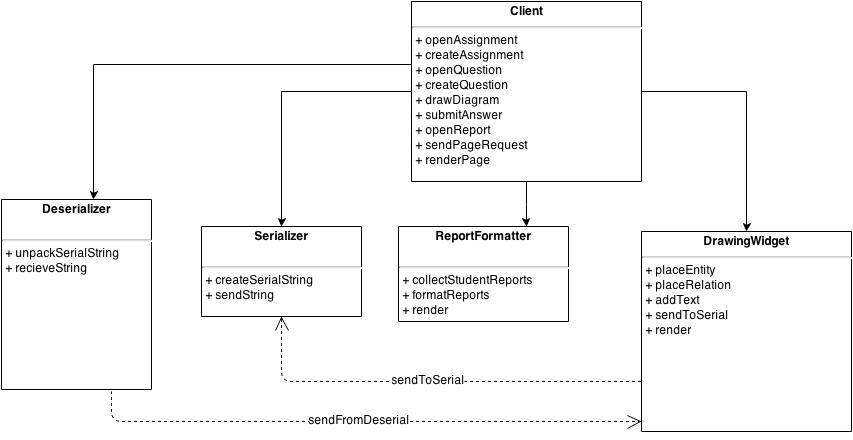
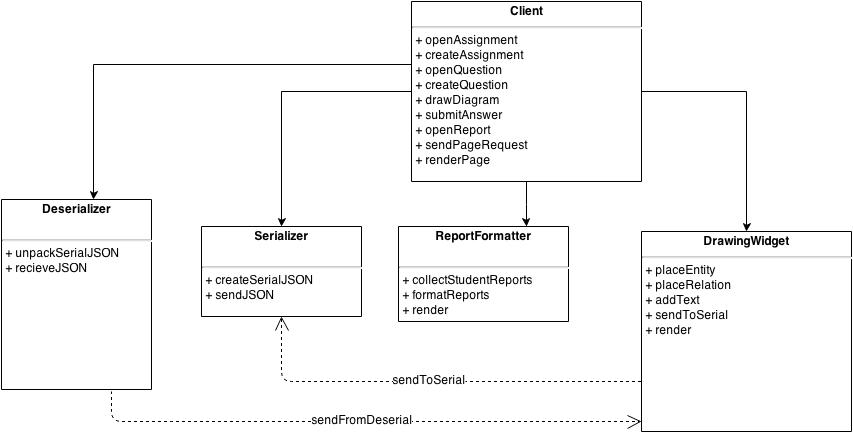
updated files

diff --git a/HighLevelDesign/Diagrams.tex b/HighLevelDesign/Diagrams.tex
@@ -6,7 +6,7 @@
     \end{figure}
     
 \chapter{Modular Design}
-In this more detailed architecture design you can see the different modules in both the client and server sides.  The Client is made up of the Drawing Widget, Report Formatter, and Serializer while the Server is made up of the Deserializer, Dispatcher, Validator, DB Accessor and the DB.  The Drawing Widget contains everything needed for the user, author or student, to draw out either the question, answer or solution to a question that is displayed on the screen.  The Report Formatter is only used by the instructor user and takes the information that it receives from the database to compile a report on the students for the instructor to view.  The Serializer, is used for packaging and submitting the question and answer from the user to the server through http sending as a string.  The Deserializer is used to take what was sent from the server and undo the serialization that was used when sending information to the server.  On the Server side, the Dispatcher takes the information from the Server and packages the information to be sent to the client side of the system.  The Validator is used when a student submits an answer to a question to check the answer for correctness, and generate feedback to the student.  The DB Accessor is responsible for handling all of the requests made to send or receive information from the database.  Finally the DB is the database that contains the question bank, the student responses and assignments.    
+In this more detailed architecture design you can see the different modules in both the client and server sides.  The Client is made up of the Drawing Widget, Report Formatter, and Serializer while the Server is made up of the Deserializer, Dispatcher, Validator, DB Accessor and the DB.  The Drawing Widget contains everything needed for the user, author or student, to draw out either the question, answer or solution to a question that is displayed on the screen.  The Report Formatter is only used by the instructor user and takes the information that it receives from the database to compile a report on the students for the instructor to view.  The Serializer, is used for packaging and submitting the question and answer from the user to the server through http sending as a JSON.  The Deserializer is used to take what was sent from the server and undo the serialization that was used when sending information to the server.  On the Server side, the Dispatcher takes the information from the Server and packages the information to be sent to the client side of the system.  The Validator is used when a student submits an answer to a question to check the answer for correctness, and generate feedback to the student.  The DB Accessor is responsible for handling all of the requests made to send or receive information from the database.  Finally the DB is the database that contains the question bank, the student responses and assignments.    
  
                         \begin{figure}[H]
             \centerline{\includegraphics[height=5cm, width=10cm]{Modular.jpg}}
@@ -14,7 +14,7 @@ In this more detailed architecture design you can see the different modules in b
     \end{figure}
     
     \chapter{Client}
-This is the diagram for the Client module. The following are the methods contained in it. openAssignment() is used by both students and instructors to open an assignment. It calls sendPageRequest() and renderPage() to render the page. createAssignment() is used by an instructor to create an assignment. openQuestion() is used by all three users, the authors, the instructors, and the students to open a question. It uses the render methods to render the page. The createQuestion() method is used by an author to create a question. drawDiagram() is used by both authors when creating the diagram and students when answering it. It uses the methods in DrawingWidget. placeEntity() to place the entities in the diagram, placeRelation() to place the relations in the diagram, and addText() to add text to the diagram. submitAnswer() is used to submit a diagram and calls sendToSerial() in DrawingWidget which uses the Serializer methods createSerialString() to convert the diagram into a string format, and sendString() to send this string to the server. openReport() is used by an instructor to view the student reports. The methods in ReportFormatter are used, collectStudentReports() retrieves the reports from the server, formatReports() formats the reports to be viewed, and render() renders the webpage.  When diagrams are sent back to the client from the server they go through the Deserializer which calls the methods, recieveString() when the string is passed back from the server and then unpackSerialString() to unpack the string back into a diagram.
+This is the diagram for the Client module. The following are the methods contained in it. openAssignment() is used by both students and instructors to open an assignment. It calls sendPageRequest() and renderPage() to render the page. createAssignment() is used by an instructor to create an assignment. openQuestion() is used by all three users, the authors, the instructors, and the students to open a question. It uses the render methods to render the page. The createQuestion() method is used by an author to create a question. drawDiagram() is used by both authors when creating the diagram and students when answering it. It uses the methods in DrawingWidget. placeEntity() to place the entities in the diagram, placeRelation() to place the relations in the diagram, and addText() to add text to the diagram. submitAnswer() is used to submit a diagram and calls sendToSerial() in DrawingWidget which uses the Serializer methods createSerialJSON() to convert the diagram into a JSON format, and sendJSON() to send this JSON to the server. openReport() is used by an instructor to view the student reports. The methods in ReportFormatter are used, collectStudentReports() retrieves the reports from the server, formatReports() formats the reports to be viewed, and render() renders the webpage.  When diagrams are sent back to the client from the server they go through the Deserializer which calls the methods, recieveJSON() when the JSON is passed back from the server and then unpackSerialJSON() to unpack the JSON back into a diagram.
   
                         \begin{figure}[H]
             \centerline{\includegraphics[height=5cm, width=10cm]{Client.jpg}}
